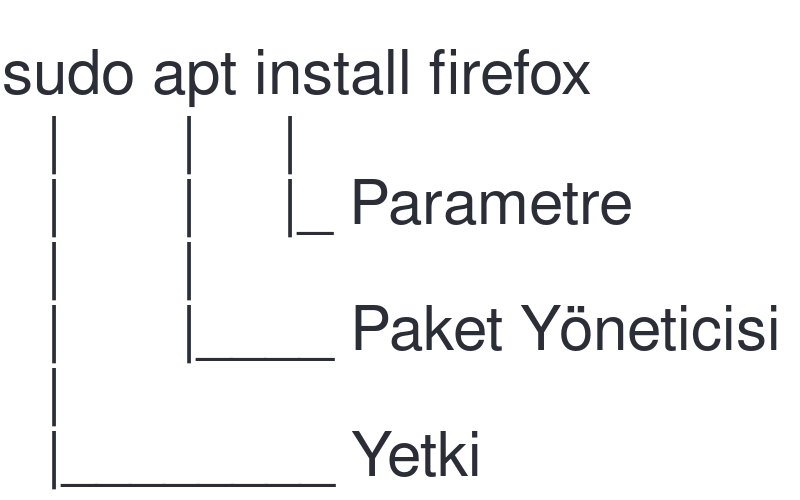
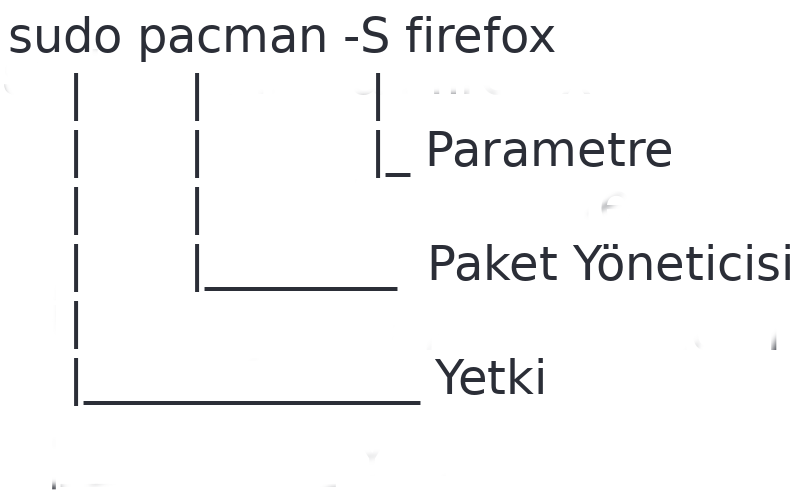
package manager changed from apt to pacman

diff --git a/hafta1/hafta1.md b/hafta1/hafta1.md
@@ -524,7 +524,7 @@ APT dışında, debian tabanlı olmayadan dağıtımlarda kullanılan, bir çok 
 Hadi şimdi bir de PauSiber Dev üzerinde firefox kurulumu gerçekleştirelim. Bunun için aşağıdaki komutu yürütmemiz yeterlidir.
 
 ```bash
-	sudo apt install firefox
+	sudo pacman -S firefox
 ```
 
 <p align="center">
@@ -539,29 +539,31 @@ Hadi şimdi bir de PauSiber Dev üzerinde firefox kurulumu gerçekleştirelim. B
 
 Burada **`sudo`** ifadesini kullanma sebebimiz işlemin sistem dosyaları üzerinde gerçekleşiyor olması. Bu yüzden komutun root yetkisi ile çalışması için komutun başına **`sudo`** ifadesini ekledik.
 
-Gördüğünüz gibi kullanımı oldukça basit. APT paket yöneticisinin parametreleri ile ilgili bilgiye aşağıdaki tablodan erişebilirisiniz.
+Gördüğünüz gibi kullanımı oldukça basit. PACMAN paket yöneticisinin parametreleri ile ilgili bilgiye aşağıdaki tablodan erişebilirisiniz.
 
 Tablo başlangıçta oldukça korkunç gözükecektir ama paket yöneticisi kullandıkça alışacağınızın garantisi veririz **:)** .
 
 | APT | Açıklama |
 |:--------:|:--------:|
-| apt search **`packageName`** | paket arar |
-| apt install **`packageName`** | paket yükler |
-| apt remove **`packageName`** | paket siler |
-| apt autoremove | herhangi bir pakete bağlı olmayan gereksiz paketleri siler |
-| apt update | repo paket bilgilerini günceller |
-| apt update && apt upgrade | yüklü paketleri günceller |
-| apt update && apt dist-upgrade | sistemin tam güncellemesini yapar |
-| apt install --download-only **`packageName`** | paketi yalnızca indirir (paket yöneticisi cache konumuna) |
-| ls /var/cache/apt/archives/ | paket yöneticisi cache'ni görüntüler |
-| apt install **`/path/to/packageName.deb`** | paketi dosya ile yükler |
-| tail -f /var/log/dpkg.log | paket yöneticisi log'larını gösterir |
-| apt show **`packageName`** | repo'daki bir paketin bilgisini gösterir |
-| dpkg -s **`packageName`** | yüklü olan bir paketin bilgisini gösterir |
-| dpkg -l \| less <br>**-ya da-**<br>apt list --installed \| less | yük olan tüm paketleri listeler |
-| apt list \| less | repo'da bulunan tüm paketleri listeler |
-| dpkg -L **`packageName`** | yüklü olan paketin dosyalarının konumlarını gösterir |
-| apt-cache policy | paket kaynak adreslerini listeler |
+| pacman -Ss **`packageName`** | paket arar |
+| pacman -S **`packageName`** | paket yükler |
+| pacman -Rs **`packageName`** | paket siler |
+| pacman -Qdtq | pacman -Rs - | herhangi bir pakete bağlı olmayan gereksiz paketleri siler |
+| pacman -Sy | repo paket bilgilerini günceller |
+| pacman -Syu | yüklü paketleri günceller |
+| pacman -Syu | sistemin tam güncellemesini yapar |
+| pacman -Sw **`packageName`** | paketi yalnızca indirir (paket yöneticisi cache konumuna) |
+| ls /var/cache/pacman/pkg/ | paket yöneticisi cache'ni görüntüler |
+| pacman -U **`/path/to/packageName.pkg.tar.xz`** | paketi dosya ile yükler |
+| tail -f /var/log/pacman.log | paket yöneticisi log'larını gösterir |
+| pacman -Si **`packageName`** | repo'daki bir paketin bilgisini gösterir |
+| pacman -Qi **`packageName`** | yüklü olan bir paketin bilgisini gösterir |
+| pacman -Q \| less | yük olan tüm paketleri listeler |
+| pacman -Ss \| less | repo'da bulunan tüm paketleri listeler |
+| pacman -Ql **`packageName`** | yüklü olan paketin dosyalarının konumlarını gösterir |
+| less /etc/pacman.d/mirrorlist | paket kaynak adreslerini listeler |
+| pacman -Qsq > packages.list | yüklü olan tüm paketlerin isimlerini packages.list dosyasına kaydeder |
+| less /etc/pacman.conf | paket yöneticisi ayarlarını gösterir |
 
 ---
 
